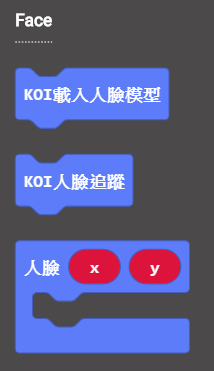
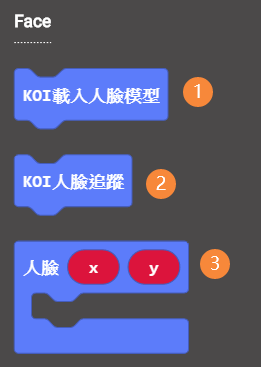
koi QS

diff --git a/functional module/AI Cam/makecodeQs.md b/functional module/AI Cam/makecodeQs.md
@@ -82,11 +82,9 @@ KOI 插件成功載入，如圖所示
 
 
 
-### 積木介紹
+## 積木介紹
 
-------
-
-#### 連接初始化
+### 連接初始化
 
 ![](McQsImage/04.png)  
 
@@ -96,7 +94,7 @@ KOI 插件成功載入，如圖所示
 
 
 
-#### Classifier 分類器
+### Classifier 分類器
 
 如果大家熟悉PC端的KittenbotML5外掛程式，那麼理解KOI的Classifier 積木塊也就很簡單了。
 
@@ -108,7 +106,7 @@ Classifier 分類器用於自訂學習分辨特定的物體或者場景等等
 
 
 
-#### **截圖與顯示**
+### **截圖與顯示**
 
 使用此功能前，先檢查記憶體卡是否已經插在KOI魔塊上，否則截圖無法保存。
 
@@ -122,7 +120,7 @@ Classifier 分類器用於自訂學習分辨特定的物體或者場景等等
 
 
 
-#### **顯示資訊**
+### **顯示資訊**
 
 使用列出積木，可在螢幕指定的x, y 上顯示資訊; 資訊顯示約1秒後便會自動消失。
 
@@ -134,7 +132,7 @@ Classifier 分類器用於自訂學習分辨特定的物體或者場景等等
 
 
 
-#### **設置螢幕顯示**
+### **設置螢幕顯示**
 
 前置(Front), 後置(Back)及平放(Land) 3種選擇，因為模組無法自動檢測當前攝像頭是前置或者後置的狀態。因此需要手動選擇設置, 螢幕會根據選擇進行畫面翻轉處理。
 
@@ -142,27 +140,27 @@ Classifier 分類器用於自訂學習分辨特定的物體或者場景等等
 
 
 
-#### **圓形追蹤**
+### **圓形追蹤**
 
 閾值越大，排除干擾越強，但閾值太大，圓形檢測會越難。
 
-x與y為檢測圓形在螢幕上的橫縱坐標，r為檢測圓形半徑。
+x與y為檢測圓形在螢幕上的橫縱坐標，r為檢測所得之圓形半徑。
 
-![](McQsImage/09.png)v
+ ![](McQsImage/09.png)
 
 
 
-#### **矩形追蹤**
+### **方形追蹤**
 
 與圓形追蹤功能同理
 
-w與h為檢測矩形時，框選出矩形的 線框長與寬
+w與h為檢測矩形時，屏幕上框選出方形的線框長度與寬度。
 
 ![](McQsImage/10.png) 
 
 
 
-#### **顏色巡線與顏色追蹤**
+### **顏色巡線與顏色追蹤**
 
 顏色巡線與顏色追蹤前，必須進行顏色校準
 
@@ -174,7 +172,7 @@ w與h為檢測矩形時，框選出矩形的 線框長與寬
 
 
 
-#### **二維碼**
+### **二維碼**
 
 掃描檢測二維碼，返回二維碼結果。
 
@@ -184,7 +182,7 @@ w與h為檢測矩形時，框選出矩形的 線框長與寬
 
 
 
-#### **條碼**
+### **條碼**
 
 掃描檢測條碼，返回條碼結果
 
@@ -194,7 +192,7 @@ w與h為檢測矩形時，框選出矩形的 線框長與寬
 
 
 
-#### Apriltag
+### Apriltag
 
 Apriltag簡單理解為簡化版的二維碼，Apriltag還能監測出座標與其三軸的旋轉角度。
 
@@ -204,13 +202,32 @@ Apriltag廣泛應用到機器人視覺識別的場景中
 
 
 
-#### **人臉模型yolo檢測**
+### **人臉模型yolo檢測**
 
-初始化需要載入人臉模型
+ ![](McQsImage/15.png) 
 
-每次調用人臉追蹤，檢測到人臉即返回人臉座標xy
+1. 初始化時載入人臉模型後, 才能啟動人臉追蹤功能。
 
-檢測人臉，返回人臉的座標
 
-![](McQsImage/15.png) 
+2. 啟動人臉追蹤功能，檢測到人臉即返回人臉座標xy。
+
+3. 當檢測到人臉，返回人臉的座標。
+
+
+
+### **錄製與播放音訊**
+
+ ![](McQsImage/17.png)
+
+由於錄製的wav 檔是儲存在micro SD 卡中, 播放功能亦是由記憶卡讀取wav 檔, 因此使用時要求在KOI開機前,  記憶體卡已經插好，否則不能進行錄音與播放。
+
+**記憶體卡不支援hot plug，請在啟動KOI前插好記憶卡**
+
+
+
+### KOI的AB按鍵檢測
+
+ ![](McQsImage/18.png)
+
+按鍵檢測事件，btn1與btn2分別是按鍵的狀態值; 當按下鬆開會傳回迅間值1，閒置狀能為0。
 

diff --git a/functional module/AI Cam/intro.md b/functional module/AI Cam/intro.md
@@ -160,7 +160,7 @@
 
 ##### PH2.0 4PIN串口
 
-此介面用於與能量魔塊主控盒、Microbit、Arduino或者其他帶串口的板子進行串口通訊
+此介面用於與能量魔塊主控盒、Robotbit、Arduino或者其他帶串口的板子進行串口通訊
 
 4PIN引腳定義：  
 
